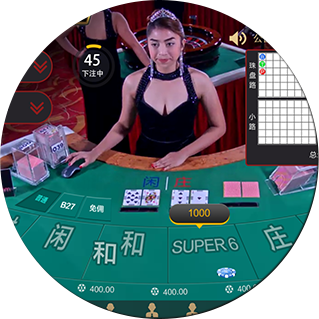
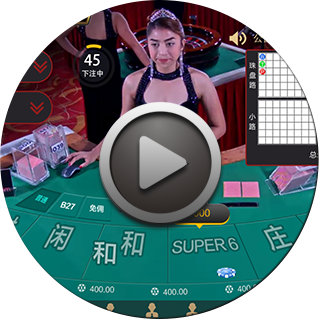
更新官网

Changed region(s): [[0.3103, 0.3103, 0.7053, 0.7335]]

diff --git a/NaWeb/src/components/product.vue b/NaWeb/src/components/product.vue
@@ -30,7 +30,7 @@ export default {
       Products: [
         {title: '真人视讯', type: 'people', content: '稳定流畅真人直播，全民咪牌，语音聊天，刺激体验尽在NA视讯。',imgUrl: '/static/g1.png', tag: '/static/hotgame.png', videoUrl: 'http://app.risheng3d.com/video/na77/zr.mp4'},
         {title: '电子游戏', type: 'tiger', content: '传统的电子游戏融汇了更多元化的表现题材，及交互玩法。',imgUrl: '/static/g5.png', videoUrl: 'http://app.risheng3d.com/video/na77/lhj.mp4'},
-        {title: '街机游戏', type: 'chess', content: '结合当下热门街机游戏，3D创新体验，激情奉献。',imgUrl: '/static/g4.png',tag: '/static/newgame.png', videoUrl: 'http://app.risheng3d.com/video/na77/slxy.mp4'},
+        {title: '街机游戏', type: 'chess', content: '结合当下热门街机游戏，3D创新体验，激情奉献。',imgUrl: '/static/g4.png',tag: '/static/newgame.png', videoUrl: 'http://app.risheng3d.com/video/na77/jj.mp4'},
         {title: '包房棋牌', type: 'electron', content: '包房棋牌，带动平台推广。NA将持续推出更多地方棋牌游戏。',imgUrl: '/static/g2.png', videoUrl: 'http://app.risheng3d.com/video/na77/qp.mp4'}
       ]
     }
